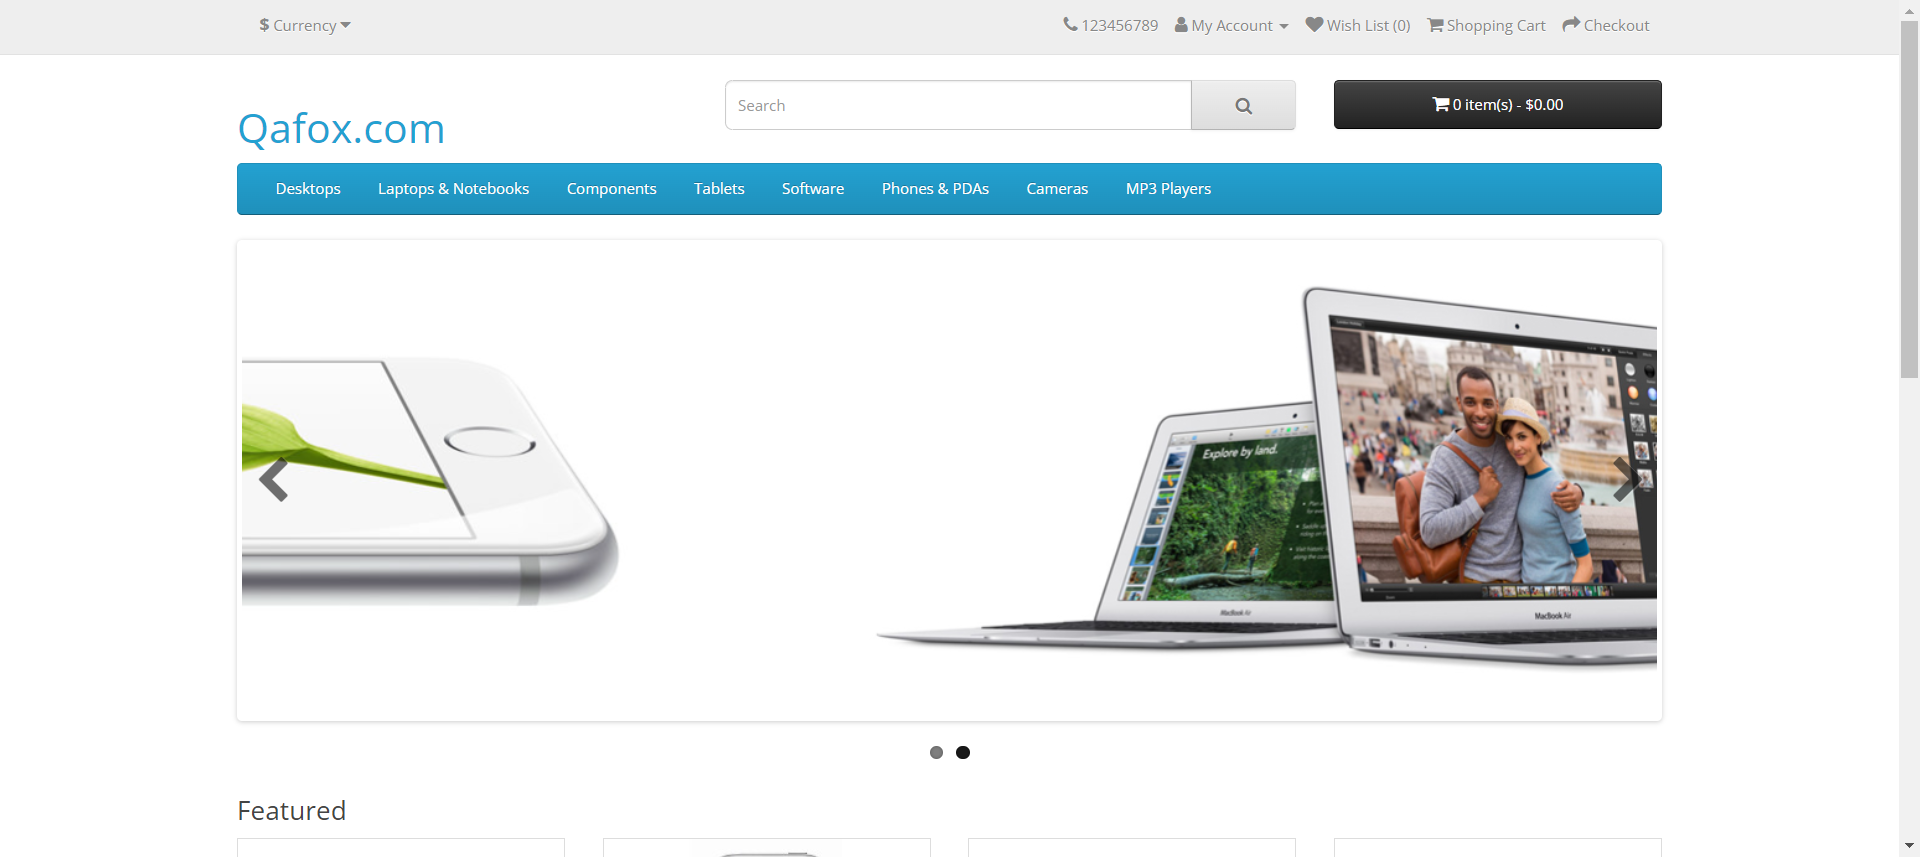
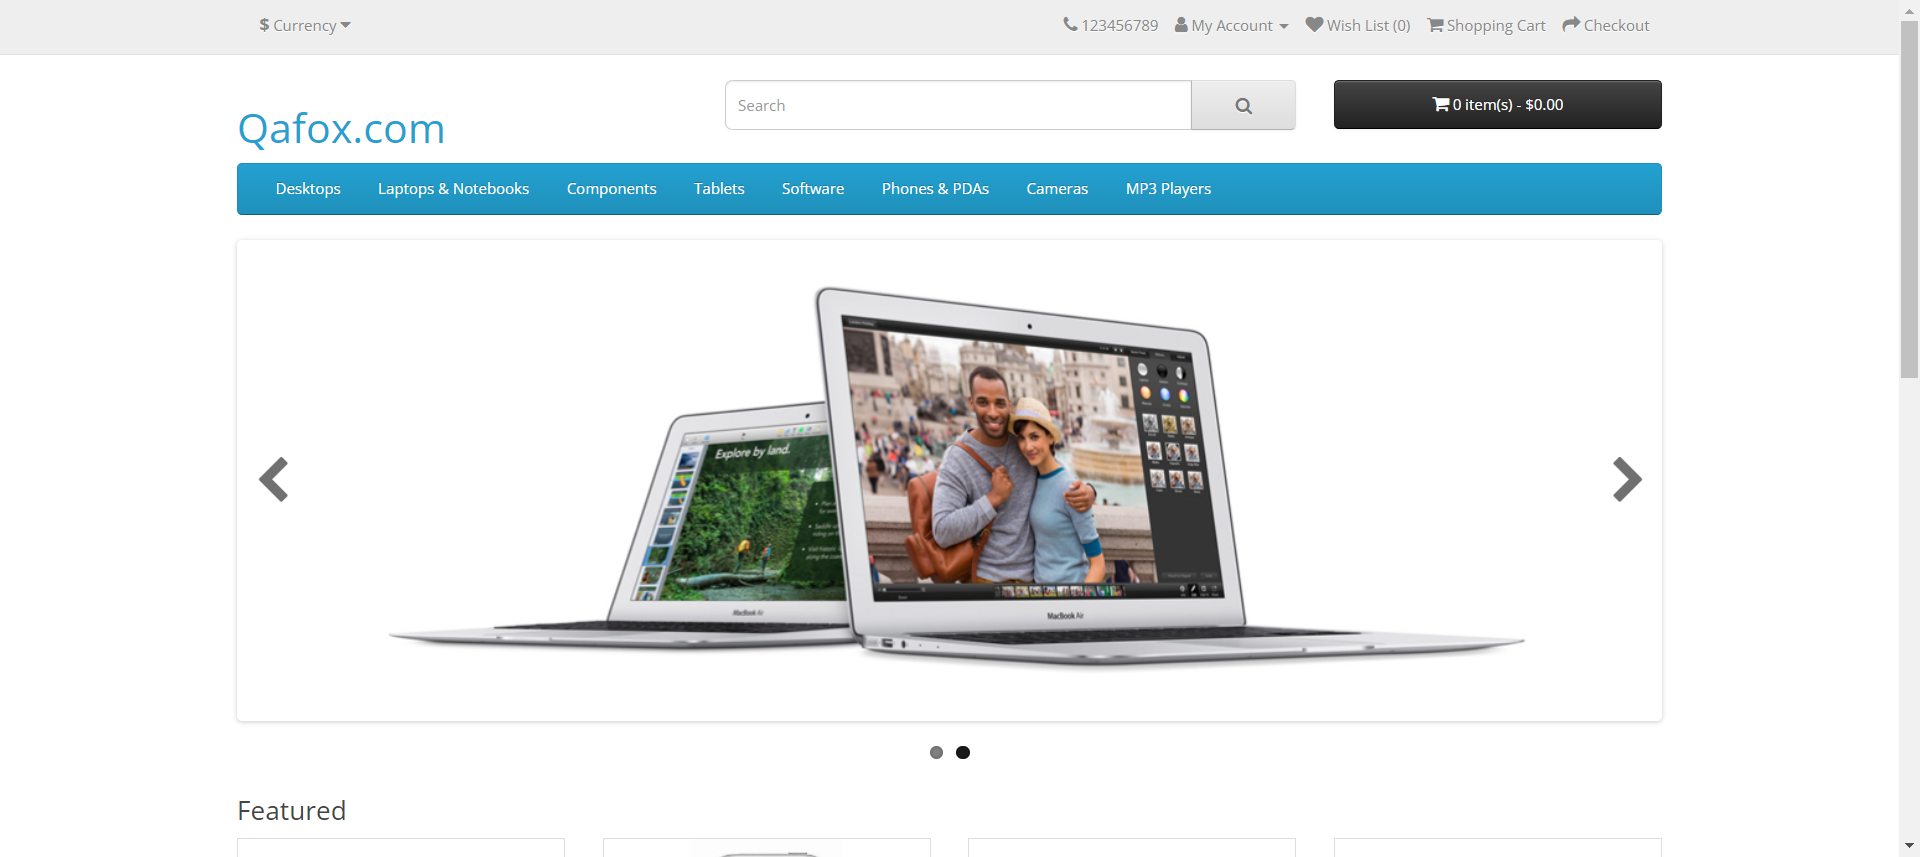
veronica

Changed region(s): [[0.125, 0.3337, 0.875, 0.7888], [0.125, 0.3944, 0.1875, 0.4247]]

diff --git a/src/test/java/HomePage/HomePageComp.java b/src/test/java/HomePage/HomePageComp.java
@@ -1,82 +1,86 @@
 package HomePage;
 
-import ch.qos.logback.core.net.SyslogOutputStream;
-import org.apache.commons.math3.analysis.function.Add;
-import org.openqa.selenium.Alert;
-import org.openqa.selenium.JavascriptExecutor;
+import org.openqa.selenium.By;
 import org.openqa.selenium.WebElement;
 import org.openqa.selenium.interactions.Actions;
 
-public class HomePageComp extends HomePageWebElements{
+import java.util.List;
+
+import static org.testng.Assert.assertEquals;
+import static org.testng.Assert.assertTrue;
+
+public class HomePageComp extends HomePageWebElements {
 
     public void CheckHomePageOpened() {
         logger.debug("check Home page opened");
         //check URL
-        String url=driver.getCurrentUrl();
+        String url = driver.getCurrentUrl();
         checkIfEqual(url, "https://tutorialsninja.com/demo/");
     }
 
 
     public void CheckProductImage() {
         logger.debug("Check Product image");
-        boolean ProductImage=GetProductImage().isDisplayed();
-        System.out.println("product image "+ProductImage);
+        boolean ProductImage = GetProductImage().isDisplayed();
+        System.out.println("product image " + ProductImage);
     }
 
-    public void CheckProductNameColor(){
+    public void CheckProductNameColor() {
         logger.debug("Check Product name color");
-        String Color=GetProductName().getCssValue("Color");
-        System.out.println("Color is: "+Color);
+        String Color = GetProductName().getCssValue("Color");
+        System.out.println("Color is: " + Color);
     }
 
     public void CheckProductinfo() {
         logger.debug("Check product info");
-        String ProductInfo=GetProductContentContainer().getText();
+        String ProductInfo = GetProductContentContainer().getText();
         System.out.println(ProductInfo);
     }
 
     public void ClickOnAddToCartButton() {
         logger.debug("Click Add to cart button");
-        WebElement AddToCart=GetAddToCartButton();
+        WebElement AddToCart = GetAddToCartButton();
         explicitlyWaitForVisibility(AddToCart);
         //move to add to cart btn
-        Actions action =new Actions(driver);
+        Actions action = new Actions(driver);
         action.moveToElement(AddToCart).perform();
         //check if add to cart btn is enabled
-        CheckIfButtonIsEnable(AddToCart,"Add To Cart Button");
-        AddToCart.click();}
+        CheckIfButtonIsEnable(AddToCart, "Add To Cart Button");
+        AddToCart.click();
+    }
 
-    public void CheckAlertOnCilickingOnAddTOCartBtn(){
+    public void CheckAlertOnCilickingOnAddTOCartBtn() {
         logger.debug("Check Add to cart button Alert");
-        WebElement AddToCart=GetAddToCartButton();
+        WebElement AddToCart = GetAddToCartButton();
         explicitlyWaitForVisibility(AddToCart);
         //Click on add to cart btn
-        Actions action =new Actions(driver);
+        Actions action = new Actions(driver);
         action.moveToElement(AddToCart).perform();
         AddToCart.click();
         //check alert is appeared
 
-        String alertText =GetAlert().getText();
+        String alertText = GetAlert().getText();
 //        Alert alert = driver.switchTo().alert();
 //        explicitlyWaitForVisibility((WebElement) alert);
 //        String alertText = alert.getText();
-       System.out.println("Alert text: " + alertText);}
+        System.out.println("Alert text: " + alertText);
+    }
 
     public void CheckCartIconNumberUpdates() throws InterruptedException {
         logger.debug("Check Cart Icon Number Updates");
-        WebElement AddToCart=GetAddToCartButton();
+        WebElement AddToCart = GetAddToCartButton();
         explicitlyWaitForVisibility(AddToCart);
         //Click on add to cart btn
-        Actions action =new Actions(driver);
+        Actions action = new Actions(driver);
         action.moveToElement(AddToCart).perform();
         AddToCart.click();
         //check cart icon number
-        WebElement CartIcon=GetHeaderCartIcon();
+        WebElement CartIcon = GetHeaderCartIcon();
         action.moveToElement(CartIcon).perform();
         Thread.sleep(1000);
-        String CartNumber=GetHeaderCartIcon().getText();
+        String CartNumber = GetHeaderCartIcon().getText();
         System.out.println(CartNumber);
-        checkIfContain(CartNumber,"1");
+        checkIfContain(CartNumber, "1");
 
     }
 
@@ -92,7 +96,7 @@ public class HomePageComp extends HomePageWebElements{
         AddToWishList.click();
     }
 
-    public void CheckAlertOnCilickingOnAddToWishListBtn(){
+    public void CheckAlertOnCilickingOnAddToWishListBtn() {
         logger.debug("Check Wish list button Alert");
 
         WebElement AddToWishList = GetAddToWishListButton();
@@ -102,11 +106,12 @@ public class HomePageComp extends HomePageWebElements{
         action.moveToElement(AddToWishList).perform();
         AddToWishList.click();
         //check alert appeared
-        String alertText =GetAlert().getText();
+        String alertText = GetAlert().getText();
 //        Alert alert = driver.switchTo().alert();
 //        explicitlyWaitForVisibility((WebElement) alert);
 //        String alertText = alert.getText();
-        System.out.println("Alert text: " + alertText);}
+        System.out.println("Alert text: " + alertText);
+    }
 
     public void CheckWishListIconNumberUpdates() throws InterruptedException {
         logger.debug("Check Wish List Icon Number Updates");
@@ -119,52 +124,90 @@ public class HomePageComp extends HomePageWebElements{
         CheckIfButtonIsEnable(AddToWishList, "Add To Wish List Button");
         AddToWishList.click();
         //check wish list icon number
-        WebElement WishListIcon=GetHeaderWishListIcon();
+        WebElement WishListIcon = GetHeaderWishListIcon();
         Thread.sleep(1000);
-        String WishListNumber=GetHeaderWishListIcon().getText();
+        String WishListNumber = GetHeaderWishListIcon().getText();
         System.out.println(WishListNumber);
-        checkIfContain(WishListNumber,"1");
+        checkIfContain(WishListNumber, "1");
 
     }
 
-    public void ClickOnCompareThisProductButton(){
+    public void ClickOnCompareThisProductButton() {
         //Check Compare this product button is clicked
         logger.debug("Click Compare this product button");
-        WebElement CompareThisProduct=GetCompareThisProductButton();
+        WebElement CompareThisProduct = GetCompareThisProductButton();
         //move to add to Compare this product btn
-        Actions action =new Actions(driver);
+        Actions action = new Actions(driver);
         action.moveToElement(CompareThisProduct).perform();
         //Check if Compare this product btn is enabled
-        CheckIfButtonIsEnable(CompareThisProduct,"Compare This Product Button");
+        CheckIfButtonIsEnable(CompareThisProduct, "Compare This Product Button");
         CompareThisProduct.click();
 
     }
-    public void CheckAlertOnCilickingOnCompareThisProductBtn(){
+
+    public void CheckAlertOnCilickingOnCompareThisProductBtn() {
         logger.debug("Check Compare this product button Alert");
 
-        WebElement CompareThisProduct=GetCompareThisProductButton();
+        WebElement CompareThisProduct = GetCompareThisProductButton();
         //move to add to Compare this product btn
-        Actions action =new Actions(driver);
+        Actions action = new Actions(driver);
         action.moveToElement(CompareThisProduct).perform();
         //Click on Compare this product btn is enabled
         CompareThisProduct.click();
         //check alert appeared
-        String alertText =GetAlert().getText();
+        String alertText = GetAlert().getText();
 //        Alert alert = driver.switchTo().alert();
 //        explicitlyWaitForVisibility((WebElement) alert);
 //        String alertText = alert.getText();
-        System.out.println("Alert text: " + alertText);}
+        System.out.println("Alert text: " + alertText);
+    }
 
-public void ClickImageSliderButton(){
-        logger.debug("Click Image Slider button");
-        String CurrentImage=GetSliderImage().getAttribute("src");
-        WebElement SliderButton= GetSliderButton();
-        Actions action =new Actions(driver);
+    public void ClickImageSliderNextButton() {
+        logger.debug("Click Image Slider Next button");
+        //get slider container
+        WebElement SliderContainer = GetSliderContainer();
+        List<WebElement> slides = SliderContainer.findElements(By.cssSelector(".swiper-slide"));
+        //get current image Name
+        WebElement CurrentImage = slides.get(0).findElement(By.className("img-responsive"));
+        String CurrentImageName = CurrentImage.getAttribute("alt");
+        System.out.println(CurrentImageName);
+        //move to slider button and click on it
+        WebElement SliderButton = GetSliderNextButton();
+        Actions action = new Actions(driver);
         action.moveToElement(SliderButton).perform();
+        CheckIfButtonIsEnable(SliderButton, "Slider Button");
         SliderButton.click();
-        String NextImage=GetSliderImage().getAttribute("src");
-        CheckIfNotequals(CurrentImage,NextImage);
+        //get next image Name
+        WebElement NextImage = slides.get(1).findElement(By.className("img-responsive"));
+        String NextImageName = NextImage.getAttribute("alt");
+        System.out.println(NextImageName);
+        CheckIfNotequals(CurrentImageName, NextImageName);
+    }
 
-}
+
+    public void ClickImageSliderPreviousButton() {
+        logger.debug("Click Image Slider Previous button");
+        //get slider container
+        WebElement SliderContainer = GetSliderContainer();
+        List<WebElement> slides = SliderContainer.findElements(By.cssSelector(".swiper-slide"));
+        //get current image Name
+        WebElement CurrentImage = slides.get(0).findElement(By.className("img-responsive"));
+        String CurrentImageName = CurrentImage.getAttribute("alt");
+        System.out.println(CurrentImageName);
+        //move to slider button and click on it
+        WebElement SliderButton = GetSliderPreviousButton();
+        Actions action = new Actions(driver);
+        action.moveToElement(SliderButton).perform();
+        CheckIfButtonIsEnable(SliderButton, "Slider Button");
+        SliderButton.click();
+        //get next image Name
+        WebElement NextImage = slides.get(1).findElement(By.className("img-responsive"));
+        String NextImageName = NextImage.getAttribute("alt");
+        System.out.println(NextImageName);
+        CheckIfNotequals(CurrentImageName, NextImageName);
+
+    }
+
+
 
 }

diff --git a/src/test/java/HomePage/HomePageWebElements.java b/src/test/java/HomePage/HomePageWebElements.java
@@ -3,6 +3,8 @@ package HomePage;
 import org.openqa.selenium.WebElement;
 import Utility.FindingElements;
 
+import java.util.List;
+
 public class HomePageWebElements extends FindingElements {
 
     public WebElement GetProductContentContainer(){return findElementByClassName("caption"); }
@@ -14,8 +16,14 @@ public class HomePageWebElements extends FindingElements {
     public WebElement GetCompareThisProductButton(){return findElementByXPath("//*[@id=\"content\"]/div[2]/div[1]/div/div[3]/button[3]");}
     public WebElement GetHeaderCartIcon(){return findElementByClassName("btn-inverse");}
     public WebElement GetAlert(){return findElementByClassName("alert");}
+    public WebElement GetSliderContainer(){return findElementByClassName("swiper-container");}
     public WebElement GetSliderImage(){return findElementByClassName("img-responsive");}
-    public WebElement GetSliderButton(){return findElementByClassName("swiper-button-next");}
+    public WebElement GetSliderNextButton(){return findElementByClassName("swiper-button-next");}
+    public WebElement GetSliderPreviousButton(){return findElementByClassName("swiper-button-prev");}
+    public List<WebElement> GetAllProductsList() {return findElementsByClassName("row");}
+
+
+    }
 
 
 
@@ -24,5 +32,3 @@ public class HomePageWebElements extends FindingElements {
 
 
 
-
-}

diff --git a/src/test/java/HomePage_Test/HomePageCompTest.java b/src/test/java/HomePage_Test/HomePageCompTest.java
@@ -11,7 +11,7 @@ import java.time.Duration;
 public class HomePageCompTest extends HomePageComp {
     @BeforeMethod
     public void OpenHomePage(ITestResult result) throws Exception {
-        OpenBrowser(result);
+        SetupTheDriver(result);
         driver.manage().timeouts().implicitlyWait(Duration.ofSeconds(5));
 
     }
@@ -87,10 +87,19 @@ public class HomePageCompTest extends HomePageComp {
     }
 
     @Test(priority = 13)
-    public void CheckImageSliderBtn() {
+    public void ClickImageSliderNextBtn()  {
         CheckHomePageOpened();
-        ClickImageSliderButton();
+        ClickImageSliderNextButton();
     }
+
+    @Test(priority = 14)
+    public void ClickImageSliderPreviousBtn()  {
+        CheckHomePageOpened();
+        ClickImageSliderPreviousButton();
+    }
+
+
+
 
 
 

diff --git a/src/test/java/Utility/FindingElements.java b/src/test/java/Utility/FindingElements.java
@@ -19,6 +19,9 @@ public class FindingElements extends WaitUtils{
     public WebElement findElementByXPath(String xPath) {WebElement elemnt = driver.findElement(By.xpath(xPath));
         return elemnt;}
 
+    public WebElement findElementBycssSelector(String cssSelector) {WebElement webElement =driver.findElement(By.tagName(cssSelector));
+        return webElement ;}
+
 
     public List<WebElement> findElementsById(String Id) {
         List<WebElement> elements = driver.findElements(By.id(Id));

diff --git a/src/test/java/Utility/settingUpWebDriver.java b/src/test/java/Utility/settingUpWebDriver.java
@@ -21,12 +21,6 @@ public class settingUpWebDriver extends ScreenRecord {
         driver.navigate().to(getConfigValue("config", "url"));
     }
 
-    public void OpenBrowser(ITestResult result) throws Exception {
-        driver=new ChromeDriver();
-        driver.navigate().to(getConfigValue("config", "url"));
-        driver.manage().window().maximize();
-
-    }
 
     public static WebDriver getDriver() {
         return driver;
